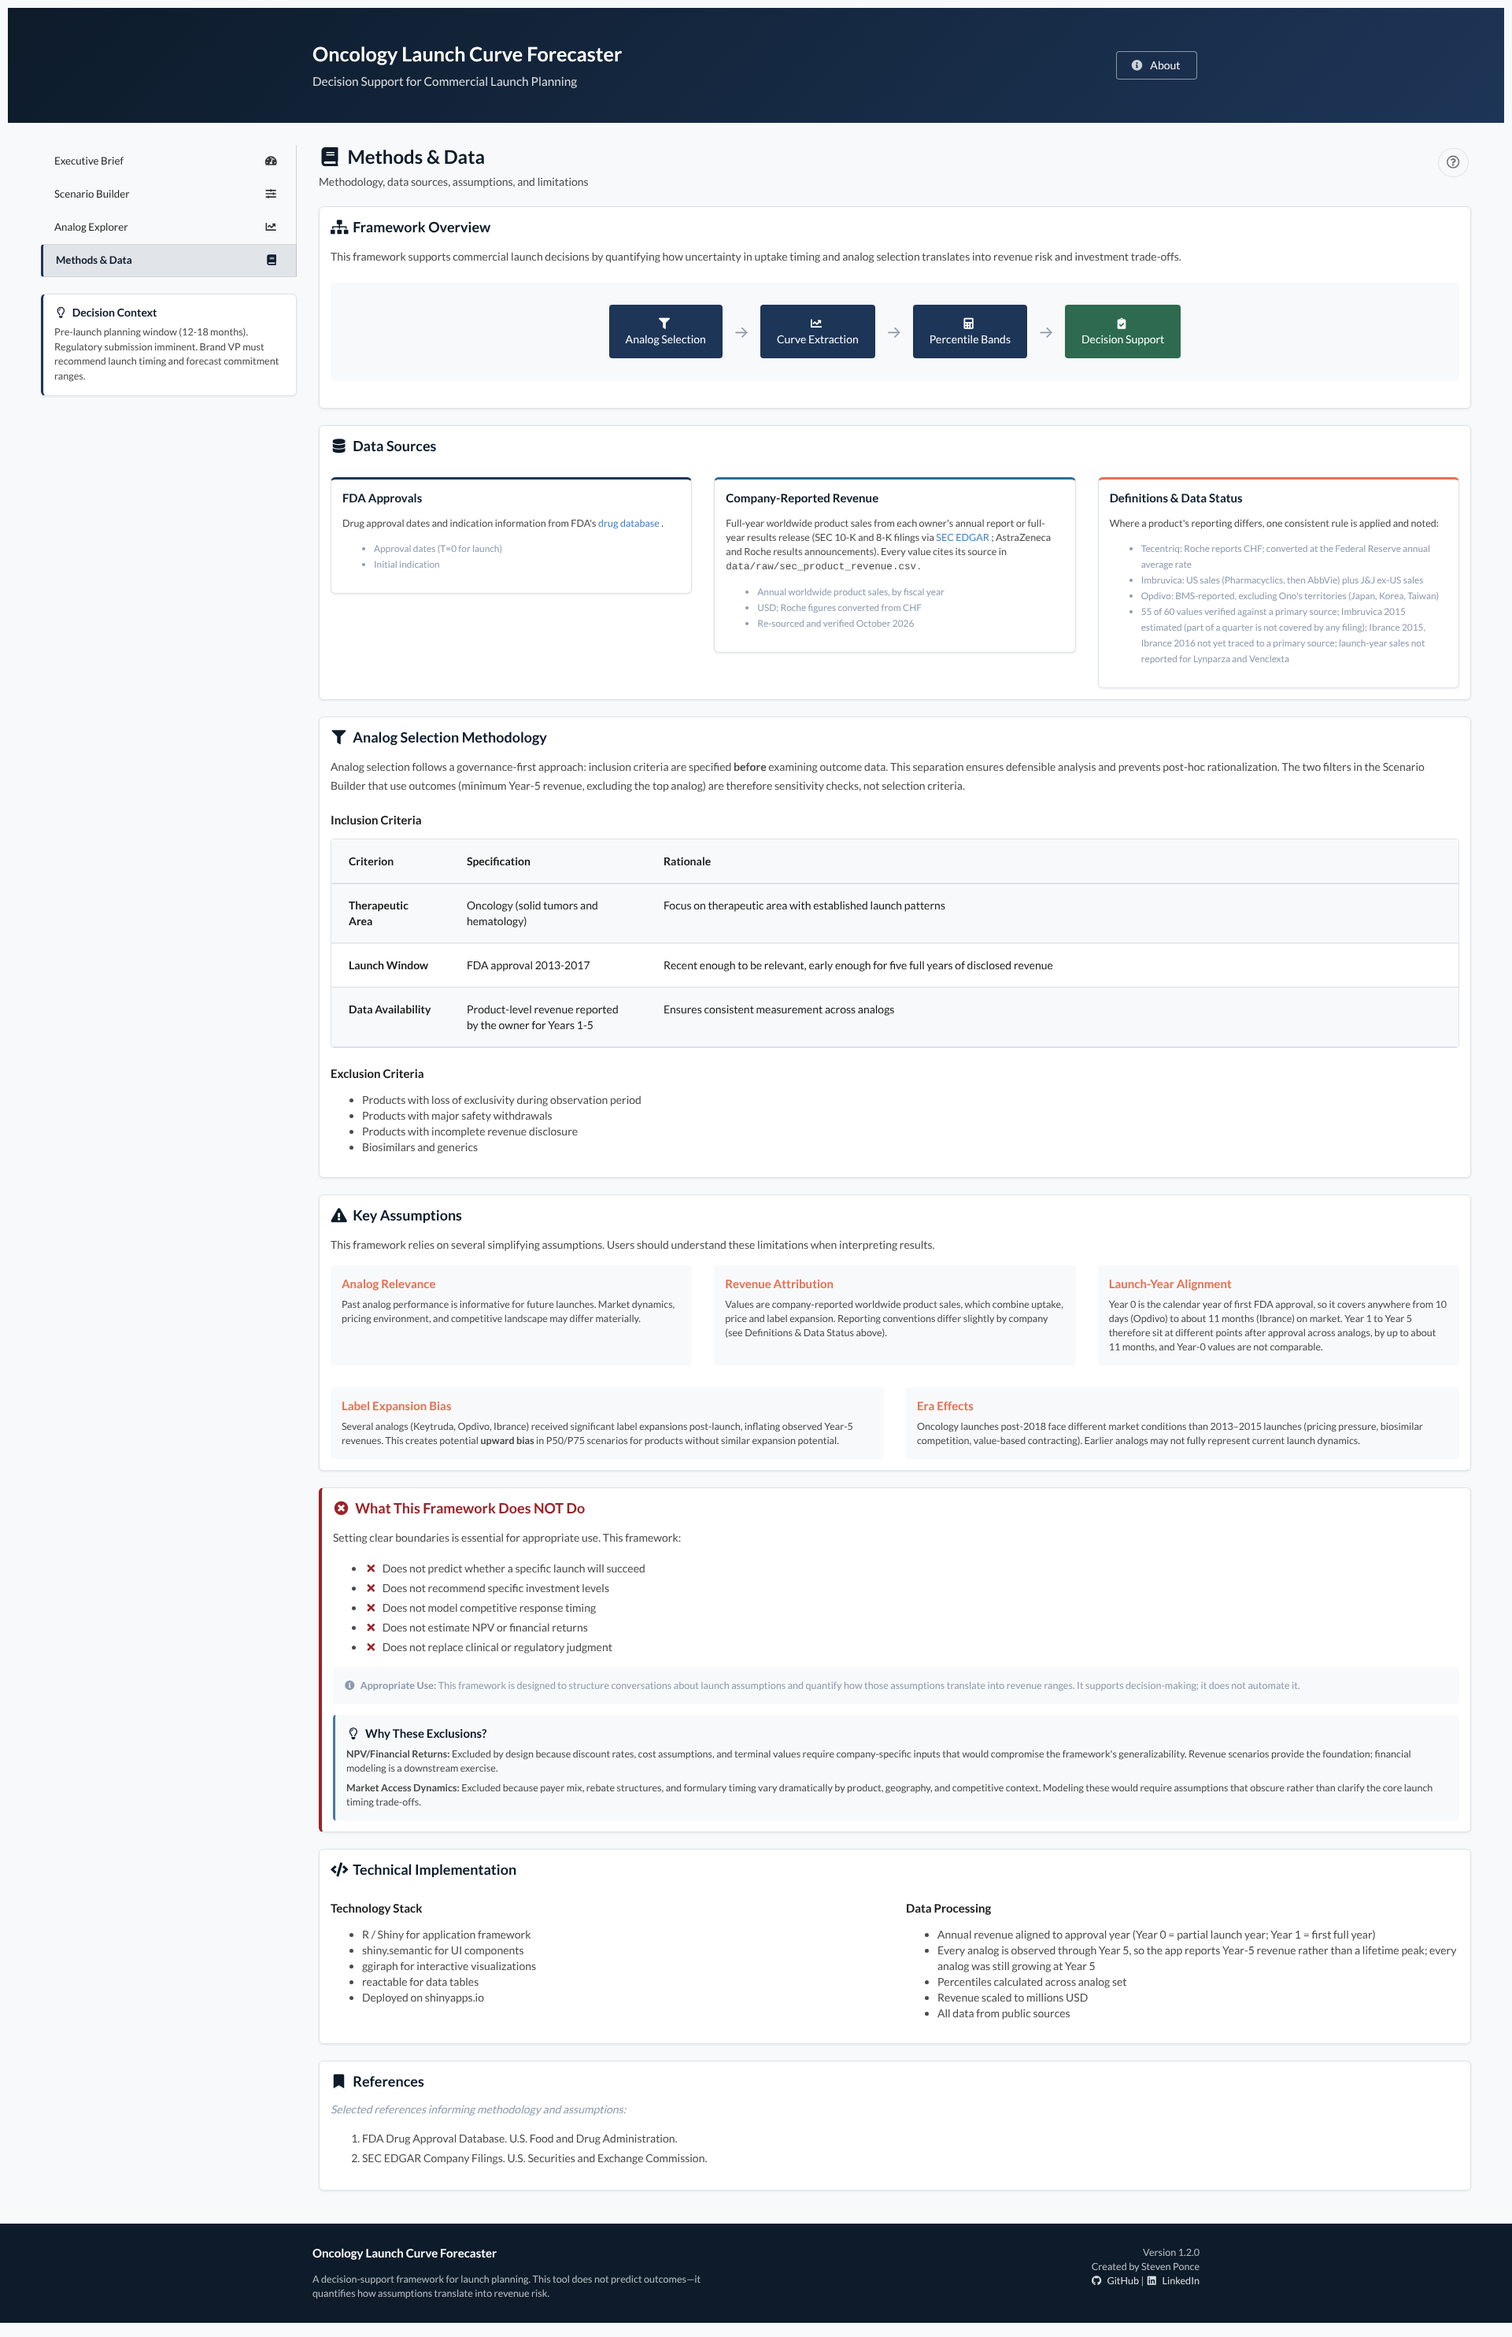
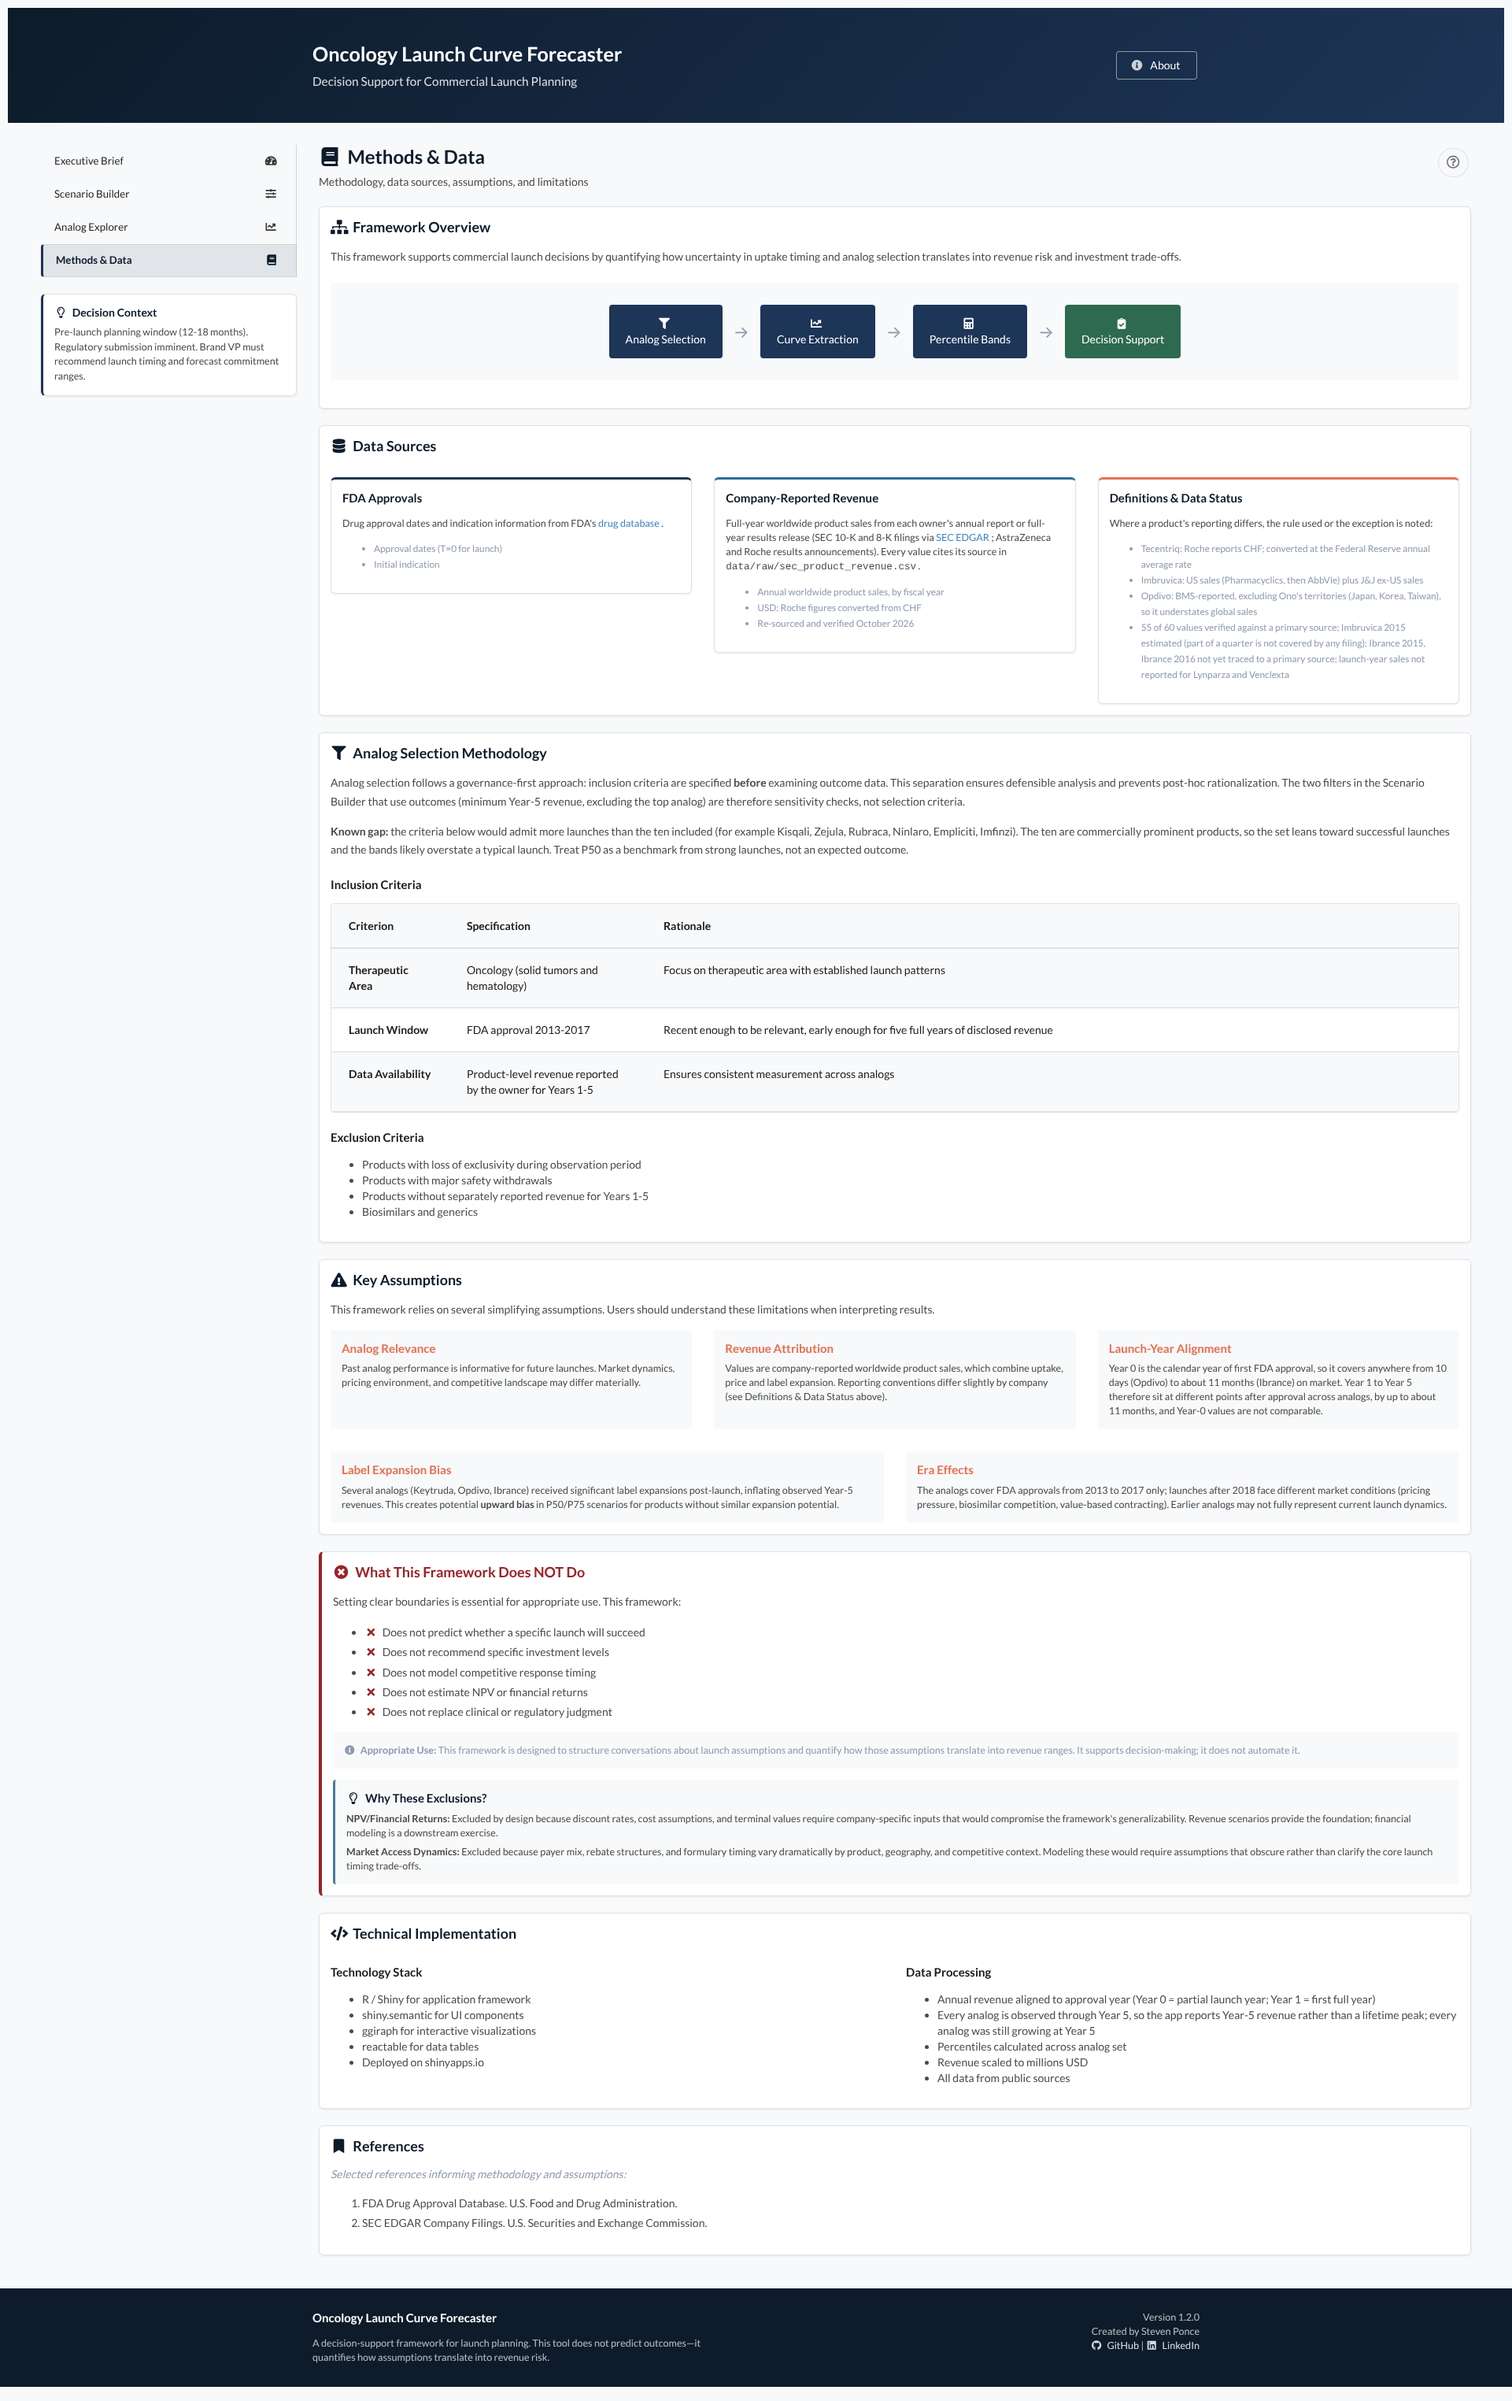
Address review: honest sourcing wording, selection-bias note, script fixes
- Claims now say 55 of 60 verified, status per value; reposted sources flagged
- Known gap: criteria admit more launches; set leans toward successful ones
- Opdivo geography ex-JP/KR/TW; era and exclusion wording; interpolation note
- scripts/02 no longer reads the CSV it overwrites; CSV fallback keeps
  fiscal_year and verification; data-status note assembled robustly

Claude-Session: https://claude.ai/code/session_01PHbzNLkh3D37aanqfshCbx

diff --git a/README.md b/README.md
@@ -27,7 +27,7 @@ The framework is designed for commercial launch planning contexts where leaders 
 
 📝 **Case study write-up:** [Launch Curve Forecaster: a governance-first case study](https://stevenponce.netlify.app/projects/standalone_visualizations/sa_2026-01-28.html)
 
-> **Data correction (October 2026).** All 60 revenue values were re-sourced from the companies' own annual reports and full-year results releases; 35 changed. The original dataset had Tecentriq in Swiss francs labeled as US dollars, an Imbruvica series that mixed two definitions, and several values that did not match the filings (for example Calquence 2019: $164M reported vs $372M stored). Every value now carries its source link and a verification status in `data/raw/sec_product_revenue.csv`.
+> **Data correction (October 2026).** All 60 revenue values were re-checked against company reports; 35 changed and 55 are now verified against a primary source (status per value below). The original dataset had Tecentriq in Swiss francs labeled as US dollars, an Imbruvica series that mixed two definitions, and several values that did not match the filings (for example Calquence 2019: $164M reported vs $372M stored). Each value carries its source and verification status in `data/raw/sec_product_revenue.csv`.
 
 ------------------------------------------------------------------------
 
@@ -143,7 +143,7 @@ This is a **Year 1 average-quarter approximation**, explicitly labeled to match 
 
 -   **Demand deferral:** Delayed demand is deferred, not destroyed
 -   **Label expansion bias:** Some analogs experienced post-launch indication expansion, creating potential upward bias
--   **Era effects:** Launch dynamics differ between earlier (2013–2015) and more recent oncology approvals
+-   **Era effects:** The analogs cover FDA approvals from 2013 to 2017 only; launches after 2018 face different conditions
 
 ------------------------------------------------------------------------
 
@@ -199,6 +199,8 @@ The framework includes established oncology launches with disclosed product-leve
 
 -   Reporting definitions differ slightly by company (see Data Sources)
 -   Year 0 covers different lengths of time on market across analogs
+-   Selection bias: the stated criteria would admit more launches than the ten included (e.g. Kisqali, Zejula, Ninlaro); the ten are commercially prominent, so the bands likely overstate a typical launch
+-   Opdivo excludes Ono's territories (Japan, Korea, Taiwan), so its curve understates global sales
 -   Label expansion can introduce upward bias in Year-5 revenues
 -   Earlier analogs may not fully reflect current launch environments
 -   Revenue-at-risk calculation is simplified (not a full DCF model)
